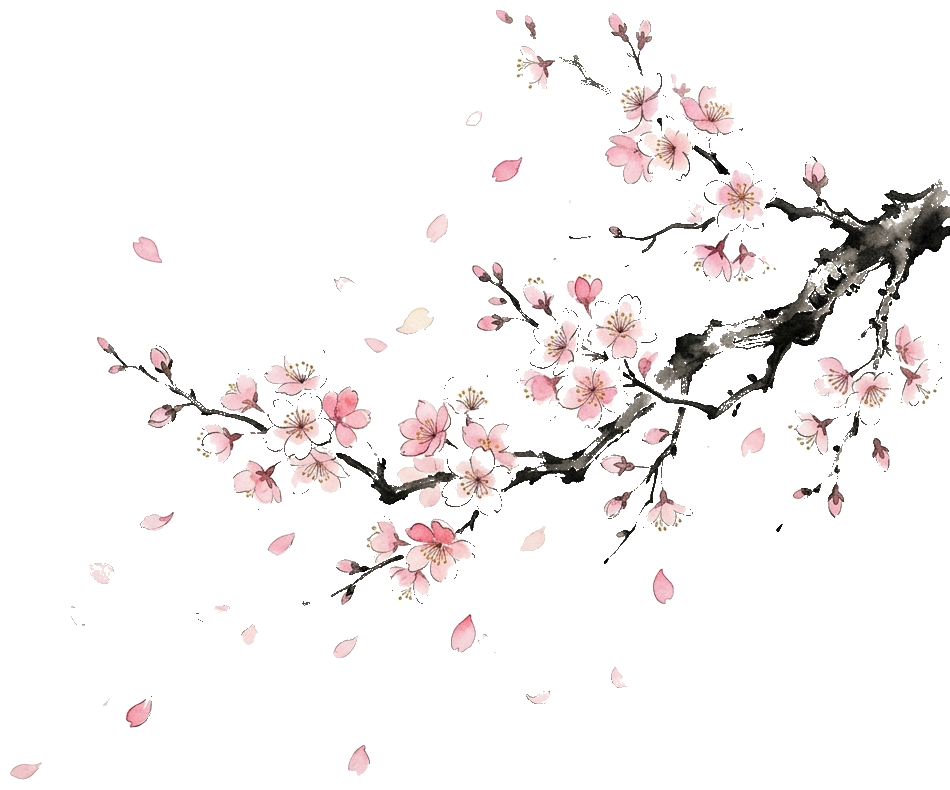
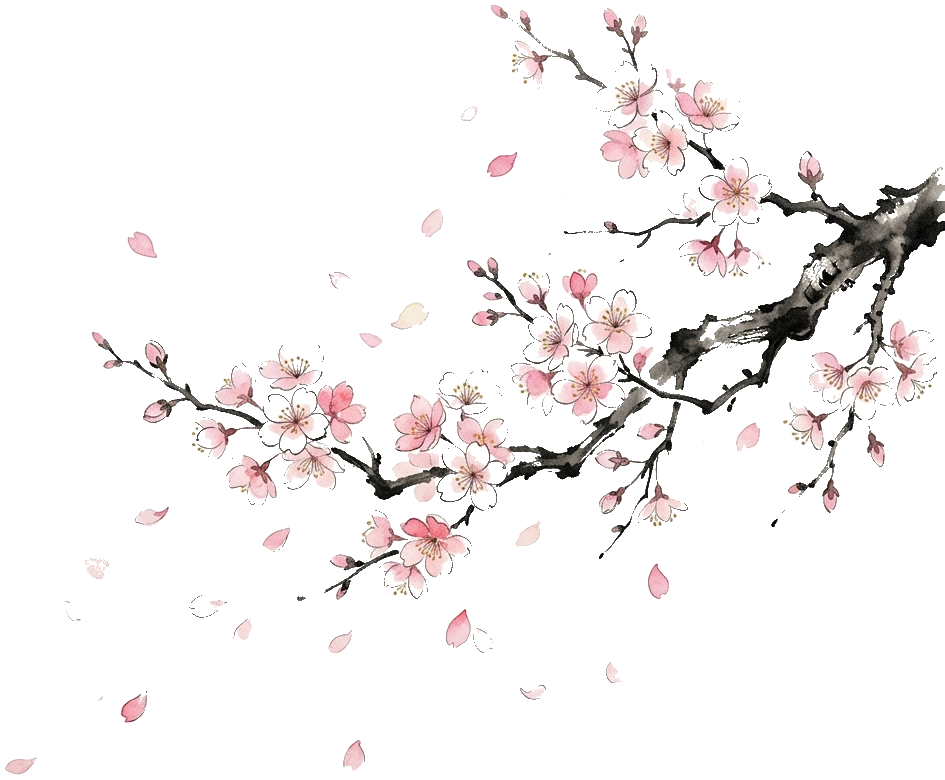
Фикс: журавль развёрнут, нижняя сакура видна, страница удлинена, убрана надпись

diff --git a/src/app/page.tsx b/src/app/page.tsx
@@ -5,7 +5,7 @@ import { motion } from "framer-motion";
 
 export default function Home() {
   return (
-    <main className="invite-page mx-auto min-h-[100vh] max-w-[430px] bg-cream relative overflow-hidden">
+    <main className="invite-page mx-auto max-w-[430px] bg-cream relative overflow-hidden">
       {/* Static Background - Mountains */}
       <div className="pointer-events-none fixed inset-x-0 top-0 h-[65vh] overflow-hidden z-0">
         <Image
@@ -19,7 +19,7 @@ export default function Home() {
       </div>
 
       {/* Hero Section Container */}
-      <section className="relative w-full min-h-screen flex flex-col items-center justify-between pt-32 pb-16 px-6 text-center z-10">
+      <section className="relative w-full min-h-screen flex flex-col items-center pt-32 pb-16 px-6 text-center z-10">
         
         {/* Sakura Branch - positioned in the upper-left, extending horizontally, transparent background */}
         <div className="absolute left-0 top-0 w-[80%] max-w-[340px] pointer-events-none z-20 select-none">
@@ -95,55 +95,55 @@ export default function Home() {
           </div>
         </div>
 
-        {/* Bottom Sakura Branch - right side, mirroring the top */}
-        <motion.div
-          initial={{ opacity: 0, x: 40 }}
-          animate={{ opacity: 1, x: 0 }}
-          transition={{ duration: 1.4, ease: "easeOut", delay: 0.8 }}
-          className="absolute right-0 bottom-[80px] w-[75%] max-w-[320px] pointer-events-none z-20 select-none"
-        >
-          <Image
-            src="/images/sakura-bottom.png"
-            alt="Sakura branch bottom"
-            width={950}
-            height={790}
-            className="h-auto w-full object-contain origin-bottom-right scale-x-[-1]"
-          />
-        </motion.div>
-
-        {/* Crane Bird - flying near the bottom sakura */}
-        <motion.div
-          initial={{ opacity: 0, x: -40, y: 20 }}
-          animate={{ opacity: 1, x: 0, y: 0 }}
-          transition={{ duration: 1.4, ease: "easeOut", delay: 1.2 }}
-          className="absolute left-[10px] bottom-[160px] w-[110px] pointer-events-none z-20 select-none"
-        >
+        {/* Bottom decorations container */}
+        <div className="relative w-full mt-16">
+          {/* Bottom Sakura Branch - right side, mirroring the top */}
           <motion.div
-            animate={{ 
-              y: [0, -6, 0],
-              x: [0, 4, 0],
-              rotate: [0, 3, 0]
-            }}
-            transition={{ 
-              duration: 6, 
-              repeat: Infinity, 
-              ease: "easeInOut" 
-            }}
+            initial={{ opacity: 0, x: 40 }}
+            animate={{ opacity: 1, x: 0 }}
+            transition={{ duration: 1.4, ease: "easeOut", delay: 0.8 }}
+            className="absolute right-0 top-0 w-[75%] max-w-[320px] pointer-events-none z-20 select-none"
           >
             <Image
-              src="/images/crane.png"
-              alt="Flying crane bird"
-              width={893}
-              height={713}
-              className="h-auto w-full object-contain"
+              src="/images/sakura-bottom.png"
+              alt="Sakura branch bottom"
+              width={950}
+              height={790}
+              className="h-auto w-full object-contain origin-top-right scale-x-[-1]"
             />
           </motion.div>
-        </motion.div>
 
-        {/* Small subtitle at the bottom of hero */}
-        <div className="relative z-30 mt-auto flex flex-col items-center">
-          <p className="text-[12px] uppercase tracking-[0.25em] text-muted mb-2">Приглашение на свадьбу</p>
-          <div className="w-[40px] h-[1px] bg-gold/50" />
+          {/* Crane Bird - flying near the bottom sakura, flipped to face right */}
+          <motion.div
+            initial={{ opacity: 0, x: -40, y: 20 }}
+            animate={{ opacity: 1, x: 0, y: 0 }}
+            transition={{ duration: 1.4, ease: "easeOut", delay: 1.2 }}
+            className="absolute left-[10px] top-[20px] w-[110px] pointer-events-none z-20 select-none"
+          >
+            <motion.div
+              animate={{ 
+                y: [0, -6, 0],
+                x: [0, 4, 0],
+                rotate: [0, 3, 0]
+              }}
+              transition={{ 
+                duration: 6, 
+                repeat: Infinity, 
+                ease: "easeInOut" 
+              }}
+            >
+              <Image
+                src="/images/crane.png"
+                alt="Flying crane bird"
+                width={893}
+                height={713}
+                className="h-auto w-full object-contain scale-x-[-1]"
+              />
+            </motion.div>
+          </motion.div>
+
+          {/* Spacer to give height for the absolute elements */}
+          <div className="h-[280px]" />
         </div>
 
       </section>
